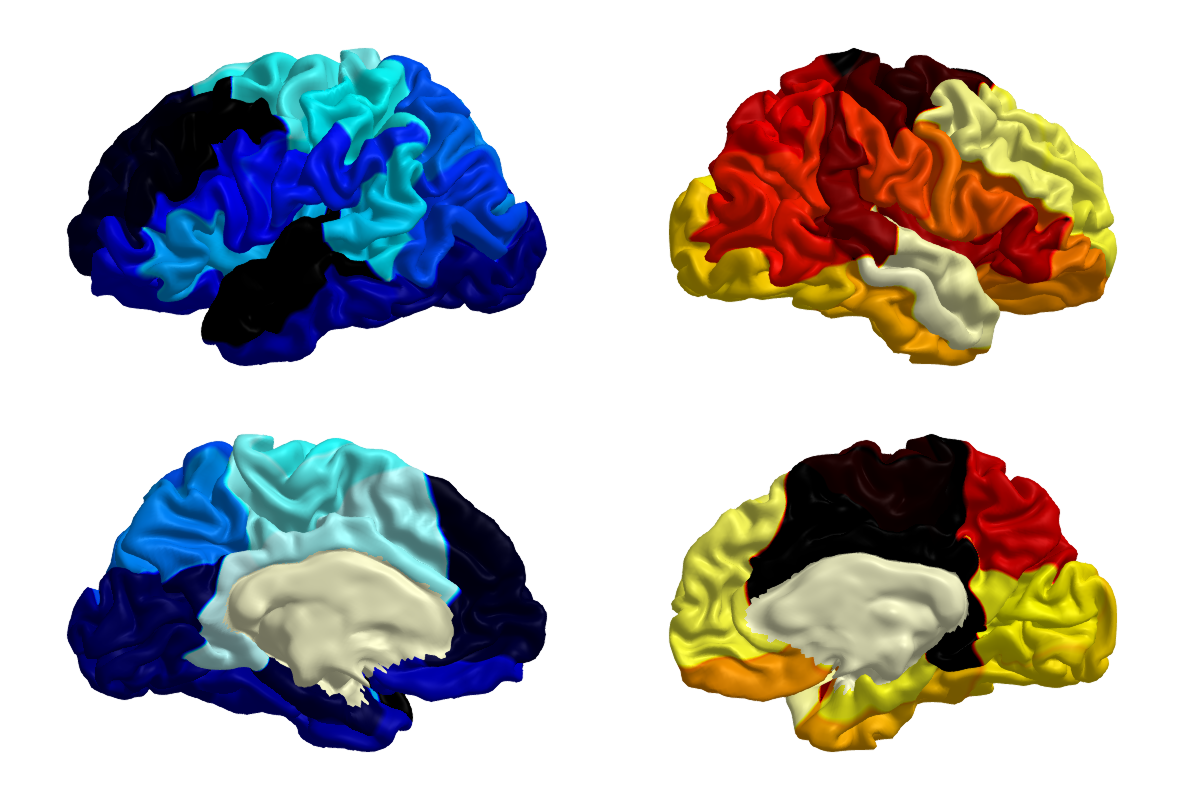
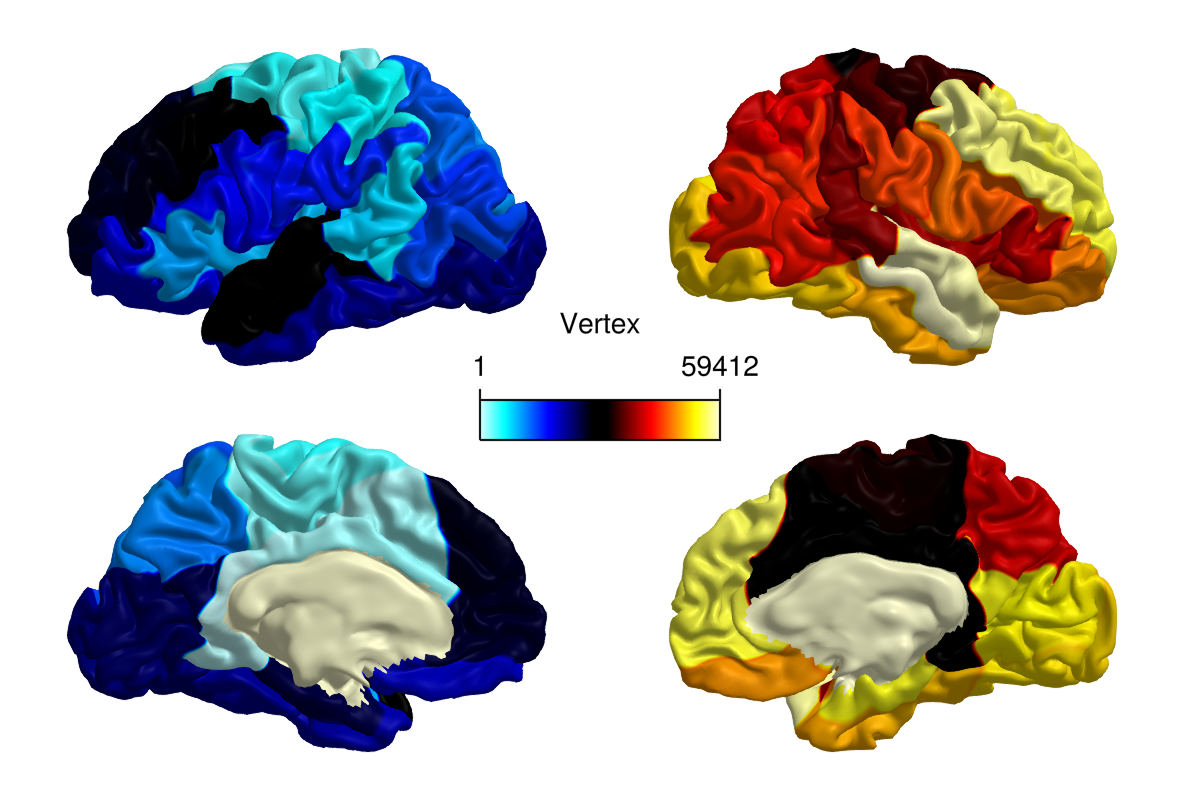
Demo update to add Colorbar

Changed region(s): [[0.4008, 0.5, 0.6167, 0.5625], [0.4625, 0.375, 0.5242, 0.4375], [0.555, 0.4375, 0.6475, 0.4688]]

diff --git a/README.md b/README.md
@@ -38,7 +38,7 @@ You can then define a `Montage` which is just a struct that contains several of 
 
 Then, in the call to `plot!` below, the argument `colors` can be any `Vector{T} where T <: Union{AbstractFloat, Colorant}`. Its length should be equal to the total number of vertices in the surface `c`, with or without medial wall. A common use case will be working with data from a [CIFTI](https://github.com/myersm0/CIFTI.jl) file, which typically will include both hemispheres in a single matrix and will omit the medial wall. The `Montage` struct from this package will know how to handle these cases, because it knows from its component `c::CorticalSurface` about properties of the surface like medial wall location and the number of vertices in each hemisphere. This implies the additional expectation that your `color` vector must be from data in the same space as that of the surface that you provided, which will be the case if you consistently work with a certain surface space representation such as the so-called fsLR_32k space.
 
-You can also supply arbitrary additional keyword arguments that will simply be delegated to `Makie.mesh!`.
+You can also supply arbitrary additional keyword arguments that will simply be delegated to `Makie.mesh!`. (To generate the below image, I also added a `Colorbar` but I omit that step here for brevity; see `examples/demo.jl`.)
 ```
 fig = Figure(; size = (800, 600))
 montage = Montage(views = default_views, grid = fig.layout, surface = c)
